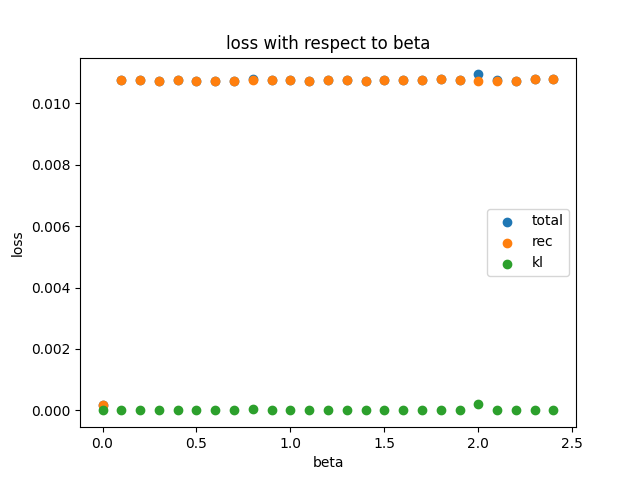
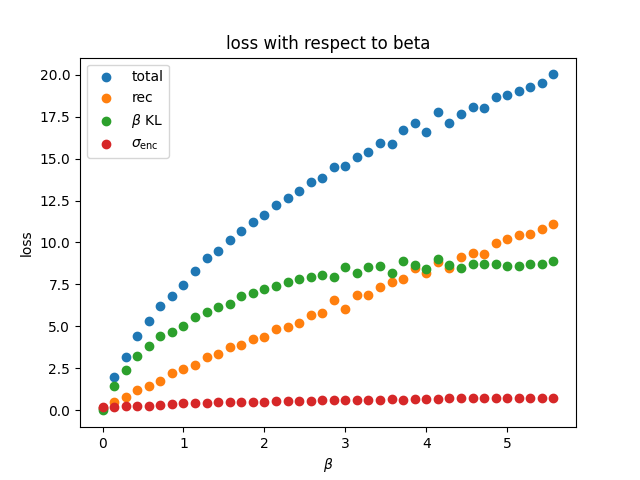
fix the rec loss

diff --git a/main.py b/main.py
@@ -20,9 +20,9 @@ parser.add_argument('--latent_dim', default=5)
 parser.add_argument('--eta_dec_sq', default=1)
 parser.add_argument('--eta_prior_sq', default=1)
 
-parser.add_argument('--batch_size', default=16)
-parser.add_argument('--epoch', default=100)
-parser.add_argument('--lr', default=1e-2)
+parser.add_argument('--batch_size', default=512)
+parser.add_argument('--epoch', default=5000)
+parser.add_argument('--lr', default=1e-3)
 
 logging.basicConfig(filename='linear_beta_vae.log', filemode='wt', level=logging.INFO)
 
@@ -36,6 +36,7 @@ def train(dataset, model: nn.Module, args):
             total_loss = 0
             total_rec_loss = 0
             total_kl_loss = 0
+            total_sigma = 0
 
             for i, (x, y) in enumerate(loader):
                 optimizer.zero_grad()
@@ -44,6 +45,7 @@ def train(dataset, model: nn.Module, args):
                 total_loss += loss.item()
                 total_rec_loss += fetched['rec_loss'].item()
                 total_kl_loss += fetched['kl_loss'].item()
+                total_sigma += fetched['sigma'].mean().item()
                 loss.backward()
                 optimizer.step()
 
@@ -51,7 +53,9 @@ def train(dataset, model: nn.Module, args):
             traj = {'epoch': e,
                     'total': total_loss/L, 
                     'rec': total_rec_loss/L, 
-                    'kl': total_kl_loss/L}
+                    'kl': total_kl_loss/L,
+                    'sigma': total_sigma/L}
+            t.set_postfix(traj)
             logging.info(traj)
             trajectory.append(traj)
             
@@ -64,15 +68,16 @@ if __name__ == "__main__":
         num_samples=args.num_samples,
         input_dim=args.input_dim,
         target_dim=args.target_dim,
-        singular_values=[1,1,1,1,1]
+        singular_values=[1,2,3,4,5]
     )
 
-    beta_list = list(i / 10 for i in range(25))
+    beta_list = list(i / 7 for i in range(40))
     # beta_list = [150, 10, 0.001]
 
     total_loss = []
     rec_loss = []
     kl_loss = []
+    sigma = []
     final_traj = []
     for beta in beta_list:
         print('beta = ', beta)
@@ -88,6 +93,7 @@ if __name__ == "__main__":
         total_loss.append(traj[-1]['total'])
         rec_loss.append(traj[-1]['rec'])
         kl_loss.append(traj[-1]['kl'])
+        sigma.append(traj[-1]['sigma'])
 
         final_traj.append(traj[-1])
 
@@ -95,9 +101,10 @@ if __name__ == "__main__":
 
     plt.scatter(beta_list, total_loss, label='total')
     plt.scatter(beta_list, rec_loss, label='rec')
-    plt.scatter(beta_list, kl_loss, label='kl')
+    plt.scatter(beta_list, kl_loss, label=r'$\beta$ KL')
+    plt.scatter(beta_list, sigma, label=r'$\sigma_{\rm enc}$')
     plt.legend()
     plt.title('loss with respect to beta')
-    plt.xlabel('beta')
+    plt.xlabel(r'$\beta$')
     plt.ylabel('loss')
     plt.savefig('linear_vae_beta_loss.png')

diff --git a/model.py b/model.py
@@ -49,7 +49,7 @@ class LinearBetaVAE(nn.Module):
     def forward(self, x, y):
         encoded = self.encoder(x)
         y_pred = self.decoder(encoded['z'])
-        rec_loss = torch.norm(y - y_pred, p=2, dim=-1).mean(0) / self.eta_dec_sq / 2
+        rec_loss = torch.square(y - y_pred).sum(-1).mean(0) / self.eta_dec_sq / 2
 
         kl_loss = .5 * (
             - torch.log(encoded['sigma']**2 / self.eta_prior_sq).sum(-1) 

diff --git a/synthetic_dataset.py b/synthetic_dataset.py
@@ -13,7 +13,7 @@ def get_general_vae_dataset(num_samples: int,
     x = torch.randn(size=(num_samples, input_dim))
     rank = min(input_dim, target_dim, len(singular_values))
 
-    transfer_matrix = torch.zeros(target_dim, input_dim)
+    transfer_matrix = torch.zeros(input_dim, target_dim)
     transfer_matrix[:rank, :rank] = torch.diag(
         torch.tensor(singular_values[:rank]))
 
